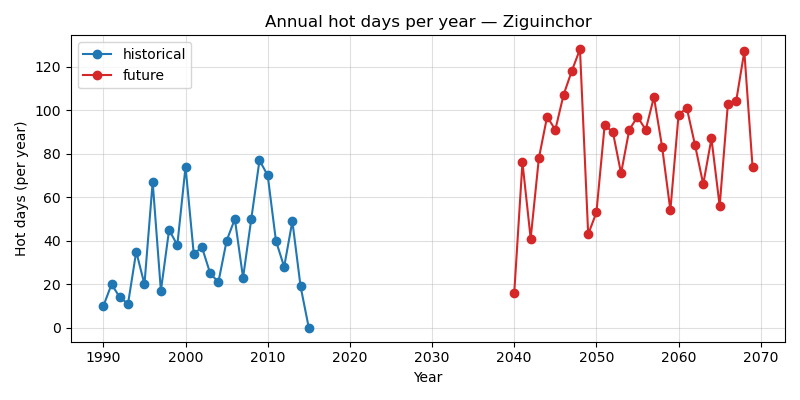
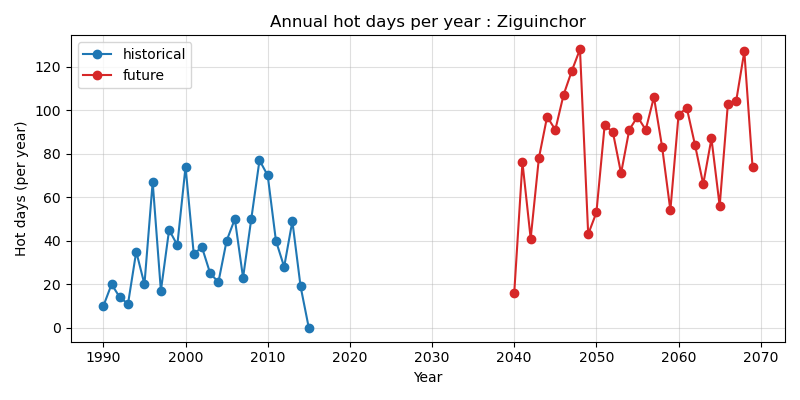
added some files modification

Changed region(s): [[0.3125, 0.03, 0.75, 0.09]]

diff --git a/scripts/rsds_monthly_plot.py b/scripts/rsds_monthly_plot.py
@@ -46,11 +46,11 @@ for i, zone in enumerate(df["zone"].unique()):
     z = df[(df["zone"] == zone)].sort_values('month')
     
     # Remove NaN values for interpolation
-    valid_mask = z["rsds_mean"].notna()
+    valid_mask = z["tas_mean"].notna()
     if valid_mask.sum() < 2:  # Skip if not enough valid points
         continue
     
-    y_data = z[valid_mask]["rsds_mean"].values
+    y_data = z[valid_mask]["tas_mean"].values
     x_data = z[valid_mask]["month"].values
     
     # Use cubic spline for smoother curves
@@ -60,16 +60,16 @@ for i, zone in enumerate(df["zone"].unique()):
     ax.plot(x_smooth, y_smooth, label=zone, color=colors[i], 
             linestyle='-', linewidth=1.2, zorder=2)
     # Add discrete markers at original data points
-    ax.plot(z["month"], z["rsds_mean"], marker='o', markersize=3.5, 
+    ax.plot(z["month"], z["tas_mean"], marker='o', markersize=3.5, 
             color=colors[i], linestyle='none', markerfacecolor='white',
             markeredgewidth=0.7, zorder=3)
 
 # Add title
-ax.set_title('Historical Monthly Mean Irradiation by Region', fontsize=13, fontweight='normal', pad=15)
+ax.set_title('Historical Monthly Mean Temperature by Region', fontsize=13, fontweight='normal', pad=15)
 
 # Enhance axis labels and formatting
 ax.set_xlabel("Month", fontweight='normal', fontsize=11)
-ax.set_ylabel("Irradiation (W/m²)", fontweight='normal', fontsize=11)
+ax.set_ylabel("Temperature (°C)", fontweight='normal', fontsize=11)
 ax.set_xlim(0.5, 12.5)
 ax.set_ylim(bottom=ax.get_ylim()[0])
 
@@ -96,9 +96,9 @@ ax.spines['bottom'].set_linewidth(0.8)
 
 # Add tight layout and save with high quality (publication-ready)
 plt.tight_layout()
-plt.savefig("results/figures/monthly_irradiation_hist.png", dpi=300, bbox_inches='tight', 
+plt.savefig("results/figures/monthly_temperature_hist.png", dpi=300, bbox_inches='tight', 
             facecolor='white', edgecolor='none')
-print("✅ Monthly irradiation plot saved to results/figures/monthly_irradiation_hist.png")
+print("✅ Monthly temperature plot saved to results/figures/monthly_temperature_hist.png")
 
 plt.show()
 plt.close()

diff --git a/scripts/03_monthly_plots.py b/scripts/03_monthly_plots.py
@@ -46,11 +46,11 @@ for i, zone in enumerate(df["zone"].unique()):
     z = df[(df["zone"] == zone)].sort_values('month')
     
     # Remove NaN values for interpolation
-    valid_mask = z["rsds_mean"].notna()
+    valid_mask = z["tas_mean"].notna()
     if valid_mask.sum() < 2:  # Skip if not enough valid points
         continue
     
-    y_data = z[valid_mask]["rsds_mean"].values
+    y_data = z[valid_mask]["tas_mean"].values
     x_data = z[valid_mask]["month"].values
     
     # Use cubic spline for smoother curves
@@ -60,16 +60,16 @@ for i, zone in enumerate(df["zone"].unique()):
     ax.plot(x_smooth, y_smooth, label=zone, color=colors[i], 
             linestyle='-', linewidth=1.2, zorder=2)
     # Add discrete markers at original data points
-    ax.plot(z["month"], z["huss_mean"], marker=' ', markersize=3.5, 
+    ax.plot(z["month"], z["tas_mean"], marker=' ', markersize=3.5, 
             color=colors[i], linestyle='none', markerfacecolor='white',
             markeredgewidth=0.7, zorder=3)
 
 # Add title
-ax.set_title('Projected Monthly Mean Radiation by Region', fontsize=13, fontweight='normal', pad=15)
+ax.set_title('Projected Monthly Mean Temperature by Region', fontsize=13, fontweight='normal', pad=15)
 
 # Enhance axis labels and formatting
 ax.set_xlabel("Month of the Year", fontweight='normal', fontsize=11)
-ax.set_ylabel("Radiation (W/m2)", fontweight='normal', fontsize=11)
+ax.set_ylabel("Temperature (°C)", fontweight='normal', fontsize=11)
 ax.set_xlim(0.5, 12.5)
 ax.set_ylim(bottom=ax.get_ylim()[0])
 
@@ -96,7 +96,7 @@ ax.spines['bottom'].set_linewidth(0.8)
 
 # Add tight layout and save with high quality (publication-ready)
 plt.tight_layout()
-plt.savefig("results/figures/monthly_rad_ssp585.png", dpi=300, bbox_inches='tight', 
+plt.savefig("results/figures/monthly_temperature_ssp585.png", dpi=300, bbox_inches='tight', 
             facecolor='white', edgecolor='none')
 plt.show()
 plt.close()

diff --git a/scripts/plot_hotdays_evolution.py b/scripts/plot_hotdays_evolution.py
@@ -36,7 +36,7 @@ for zone in zones:
     if not f_zone.empty:
         plt.plot(f_zone['year'], f_zone['hot_days'], '-o', color='tab:red', label='future')
 
-    plt.title(f'Annual hot days per year — {zone}')
+    plt.title(f'Annual hot days per year : {zone}')
     plt.xlabel('Year')
     plt.ylabel('Hot days (per year)')
     plt.grid(alpha=0.4)
